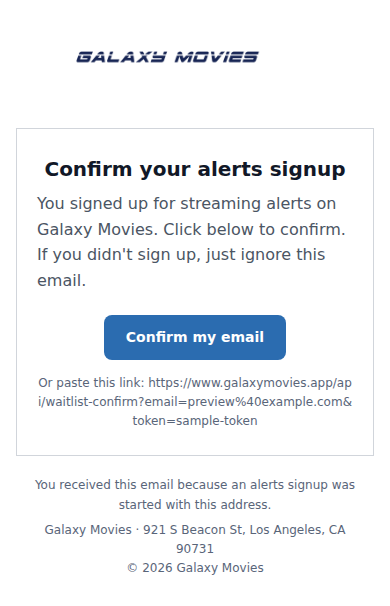
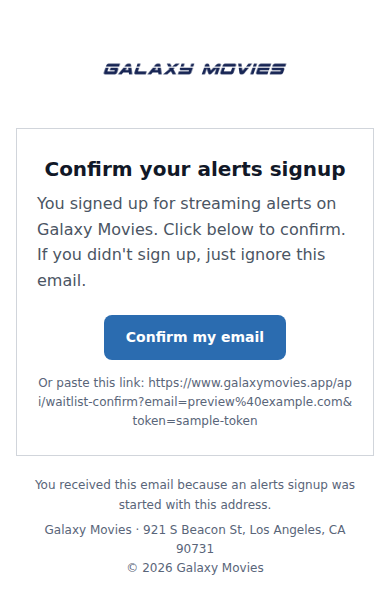
Center visible email wordmark and refresh screenshots

Changed region(s): [[0.1846, 0.0594, 0.7385, 0.1485]]

diff --git a/scripts/generate-email-logo.js b/scripts/generate-email-logo.js
@@ -1,11 +1,11 @@
 // Renders the email header logo: the homepage Wordmark ("Galaxy Movies" in
-// SpaceRanger Laser Italic with the site's blue text-shadow glow) rasterized
+// SpaceRanger Laser Italic in navy on white) rasterized
 // via next/og — the same path /api/og uses — because Gmail/Outlook drop SVG
 // images and can't be trusted to load web fonts. Deterministic; re-run after
 // font or theme changes.
 // Usage: node scripts/generate-email-logo.js
 const path = require('path')
-const { readFileSync, writeFileSync } = require('fs')
+const { readFileSync } = require('fs')
 const { ImageResponse } = require('next/og')
 const sharp = require('sharp')
 
@@ -37,7 +37,13 @@ async function main() {
     }
   )
   const png = Buffer.from(await res.arrayBuffer())
-  await sharp(png).trim({ threshold: 8 }).png().toFile(OUT)
+  // Flatten first so transparent canvas edges do not prevent white-space trimming.
+  const flat = await sharp(png).flatten({ background: '#ffffff' }).png().toBuffer()
+  const ink = await sharp(flat).trim({ background: '#ffffff', threshold: 8 }).png().toBuffer()
+  const { width, height } = await sharp(ink).metadata()
+  await sharp({ create: { width: 1200, height: 300, channels: 3, background: '#ffffff' } })
+    .composite([{ input: ink, left: Math.floor((1200 - width) / 2), top: Math.floor((300 - height) / 2) }])
+    .png().toFile(OUT)
   const meta = await sharp(OUT).metadata()
   console.log(`email-logo-light.png: ${meta.width}x${meta.height}`)
 }
